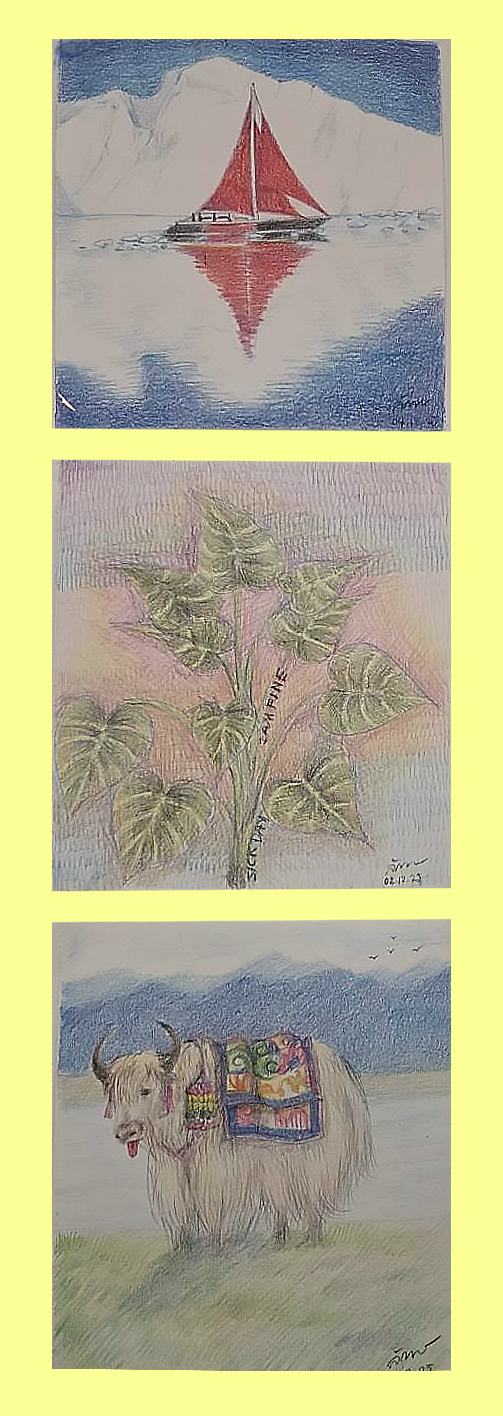
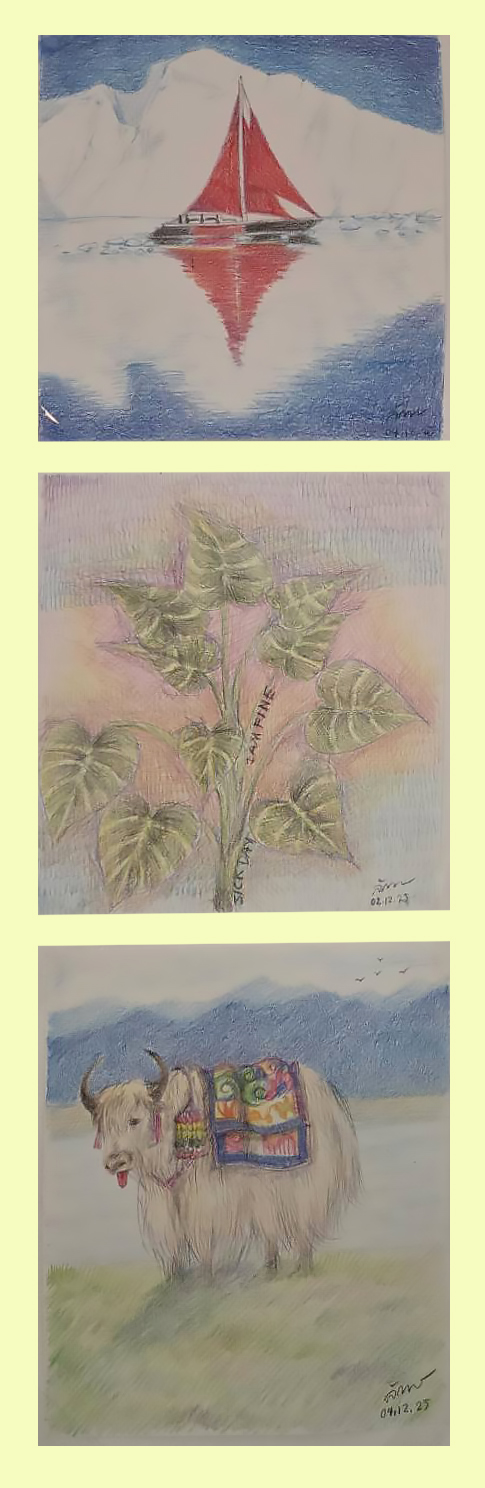
Add Frogs and Hönö Island artwork and refresh colour studies image

diff --git a/art-work.html b/art-work.html
@@ -48,64 +48,78 @@
 
       <section class="art-gallery" aria-label="Selected artwork">
         <figure class="art-piece">
-          <a class="art-image-link" href="assets/images/art/78496.jpg?v=23071a91d1b2" data-art-index="0" aria-label="View Daffodils full size">
+          <a class="art-image-link" href="assets/images/art/78916.jpg?v=0b77a521696a" aria-label="View Frogs full size" data-art-index="0">
+            <img src="assets/images/art/78916.jpg?v=0b77a521696a" alt="Colourful spotted frogs painted against a yellow background" width="1044" height="1029" loading="eager" decoding="async">
+            <span class="art-view-hint" aria-hidden="true">View artwork ↗</span>
+          </a>
+          <figcaption>Frogs</figcaption>
+        </figure>
+        <figure class="art-piece">
+          <a class="art-image-link" href="assets/images/art/78844.jpg?v=40490223969d" aria-label="View Hönö Island full size" data-art-index="1">
+            <img src="assets/images/art/78844.jpg?v=40490223969d" alt="Watercolour of the rocky shoreline, sea, and grasses on Hönö Island" width="1296" height="1017" loading="eager" decoding="async">
+            <span class="art-view-hint" aria-hidden="true">View artwork ↗</span>
+          </a>
+          <figcaption>Hönö Island</figcaption>
+        </figure>
+        <figure class="art-piece">
+          <a class="art-image-link" href="assets/images/art/78496.jpg?v=23071a91d1b2" aria-label="View Daffodils full size" data-art-index="2">
             <img src="assets/images/art/78496.jpg?v=23071a91d1b2" alt="Yellow daffodil flowers against a purple background" width="1224" height="1597" loading="eager" decoding="async">
             <span class="art-view-hint" aria-hidden="true">View artwork ↗</span>
           </a>
           <figcaption>Daffodils</figcaption>
         </figure>
         <figure class="art-piece">
-          <a class="art-image-link" href="assets/images/art/78500.jpg?v=4b34eca985fe" data-art-index="1" aria-label="View Bodensee Lighthouse, Germany full size">
+          <a class="art-image-link" href="assets/images/art/78500.jpg?v=4b34eca985fe" aria-label="View Bodensee Lighthouse, Germany full size" data-art-index="3">
             <img src="assets/images/art/78500.jpg?v=4b34eca985fe" alt="Sketch of the Bodensee lighthouse in Germany" width="1022" height="1309" loading="eager" decoding="async">
             <span class="art-view-hint" aria-hidden="true">View artwork ↗</span>
           </a>
           <figcaption>Bodensee Lighthouse, Germany</figcaption>
         </figure>
         <figure class="art-piece">
-          <a class="art-image-link" href="assets/images/art/78495_0.jpg?v=ec033a155e92" data-art-index="2" aria-label="View Frog Trippin’ full size">
+          <a class="art-image-link" href="assets/images/art/78495_0.jpg?v=ec033a155e92" aria-label="View Frog Trippin’ full size" data-art-index="4">
             <img src="assets/images/art/78495_0.jpg?v=ec033a155e92" alt="Green frog surrounded by colourful flowers and flowing patterns" width="1252" height="1613" loading="eager" decoding="async">
             <span class="art-view-hint" aria-hidden="true">View artwork ↗</span>
           </a>
           <figcaption>Frog Trippin’</figcaption>
         </figure>
         <figure class="art-piece">
-          <a class="art-image-link" href="assets/images/art/78501.jpg?v=298e4c1d825c" data-art-index="3" aria-label="View Friedhof Mülln full size">
+          <a class="art-image-link" href="assets/images/art/78501.jpg?v=298e4c1d825c" aria-label="View Friedhof Mülln full size" data-art-index="5">
             <img src="assets/images/art/78501.jpg?v=298e4c1d825c" alt="Sketch of the tower and rooftop at Friedhof Mülln" width="1000" height="957" loading="lazy" decoding="async">
             <span class="art-view-hint" aria-hidden="true">View artwork ↗</span>
           </a>
           <figcaption>Friedhof Mülln</figcaption>
         </figure>
         <figure class="art-piece">
-          <a class="art-image-link" href="assets/images/art/78493_0.jpg?v=1a59a2290085" data-art-index="4" aria-label="View Happy Ducks full size">
+          <a class="art-image-link" href="assets/images/art/78493_0.jpg?v=1a59a2290085" aria-label="View Happy Ducks full size" data-art-index="6">
             <img src="assets/images/art/78493_0.jpg?v=1a59a2290085" alt="Two happy duck sketches surrounded by small flowers" width="1244" height="1609" loading="lazy" decoding="async">
             <span class="art-view-hint" aria-hidden="true">View artwork ↗</span>
           </a>
           <figcaption>Happy Ducks</figcaption>
         </figure>
         <figure class="art-piece">
-          <a class="art-image-link" href="assets/images/art/78498.jpg?v=6723b8702aa8" data-art-index="5" aria-label="View I Love Mackerel full size">
+          <a class="art-image-link" href="assets/images/art/78498.jpg?v=6723b8702aa8" aria-label="View I Love Mackerel full size" data-art-index="7">
             <img src="assets/images/art/78498.jpg?v=6723b8702aa8" alt="Mackerel drawing with playful lettering on a yellow background" width="1375" height="931" loading="lazy" decoding="async">
             <span class="art-view-hint" aria-hidden="true">View artwork ↗</span>
           </a>
           <figcaption>I Love Mackerel</figcaption>
         </figure>
         <figure class="art-piece">
-          <a class="art-image-link" href="assets/images/art/78494_0.jpg?v=8b5bf312c76d" data-art-index="6" aria-label="View Poison Blue Ring full size">
+          <a class="art-image-link" href="assets/images/art/78494_0.jpg?v=8b5bf312c76d" aria-label="View Poison Blue Ring full size" data-art-index="8">
             <img src="assets/images/art/78494_0.jpg?v=8b5bf312c76d" alt="Blue-ringed octopus drawing with curling arms" width="1244" height="1621" loading="lazy" decoding="async">
             <span class="art-view-hint" aria-hidden="true">View artwork ↗</span>
           </a>
           <figcaption>Poison Blue Ring</figcaption>
         </figure>
         <figure class="art-piece">
-          <a class="art-image-link" href="assets/images/art/78499.jpg?v=52043013fcc4" data-art-index="7" aria-label="View Human &amp; Animal Features full size">
+          <a class="art-image-link" href="assets/images/art/78499.jpg?v=52043013fcc4" aria-label="View Human &amp; Animal Features full size" data-art-index="9">
             <img src="assets/images/art/78499.jpg?v=52043013fcc4" alt="Human portrait and animal feature sketches arranged on a sketchbook spread" width="1232" height="891" loading="lazy" decoding="async">
             <span class="art-view-hint" aria-hidden="true">View artwork ↗</span>
           </a>
           <figcaption>Human &amp; Animal Features</figcaption>
         </figure>
         <figure class="art-piece">
-          <a class="art-image-link" href="assets/images/art/78497.jpg?v=8b45d24a2821" data-art-index="8" aria-label="View I Want to Set Sail · My Philodendron · Yak full size">
-            <img src="assets/images/art/78497.jpg?v=8b45d24a2821" alt="Three colour studies of a sailboat, a philodendron, and a yak" width="503" height="1416" loading="lazy" decoding="async">
+          <a class="art-image-link" href="assets/images/art/78497.jpg?v=43513e5974a5" aria-label="View I Want to Set Sail · My Philodendron · Yak full size" data-art-index="10">
+            <img src="assets/images/art/78497.jpg?v=43513e5974a5" alt="Three colour studies of a sailboat, a philodendron, and a yak" width="485" height="1488" loading="lazy" decoding="async">
             <span class="art-view-hint" aria-hidden="true">View artwork ↗</span>
           </a>
           <figcaption>I Want to Set Sail · My Philodendron · Yak</figcaption>
